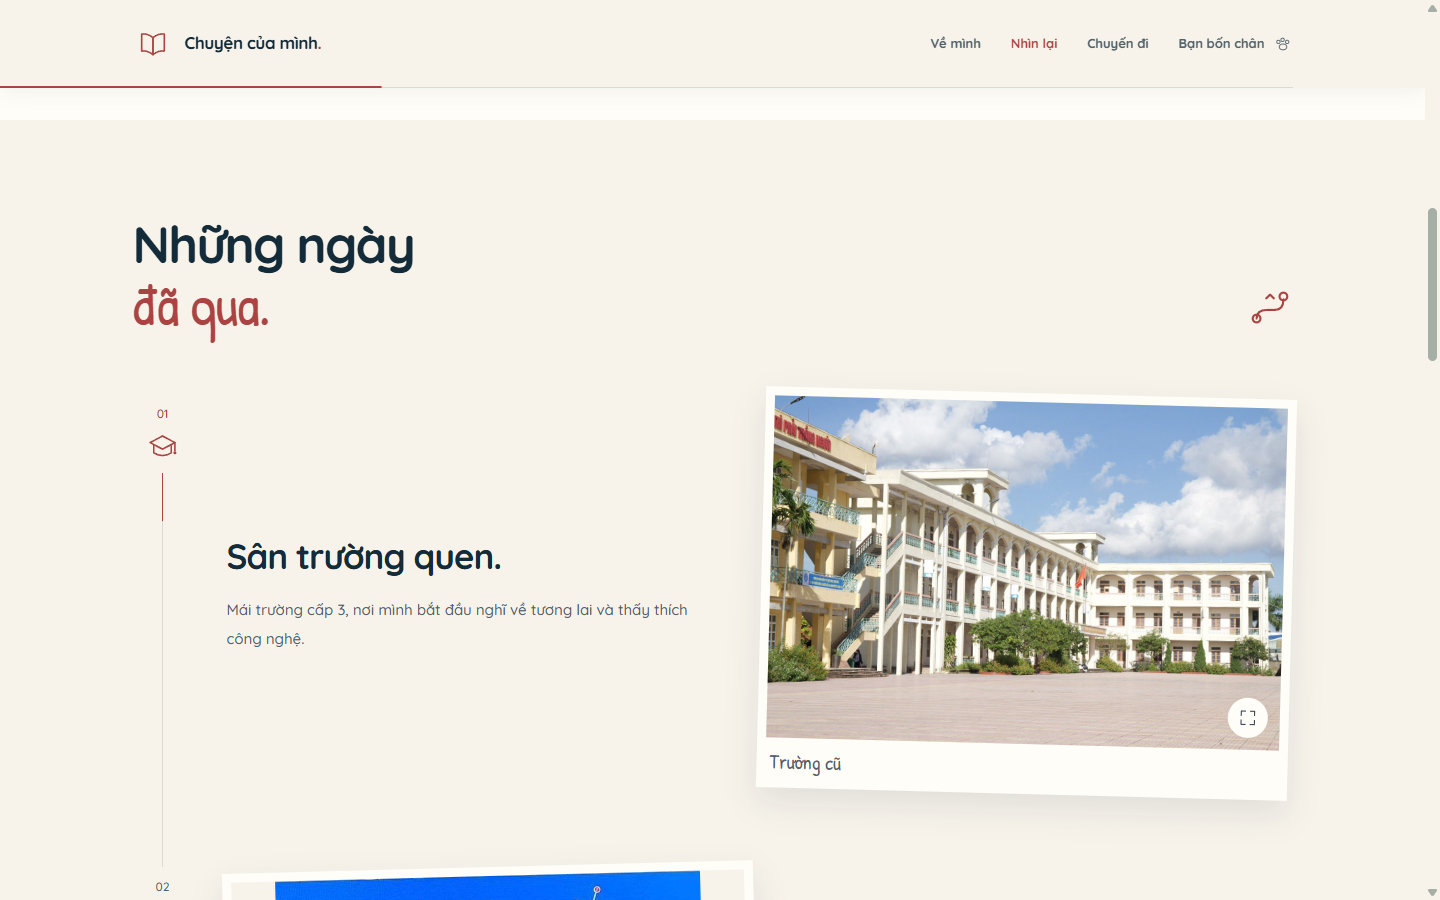
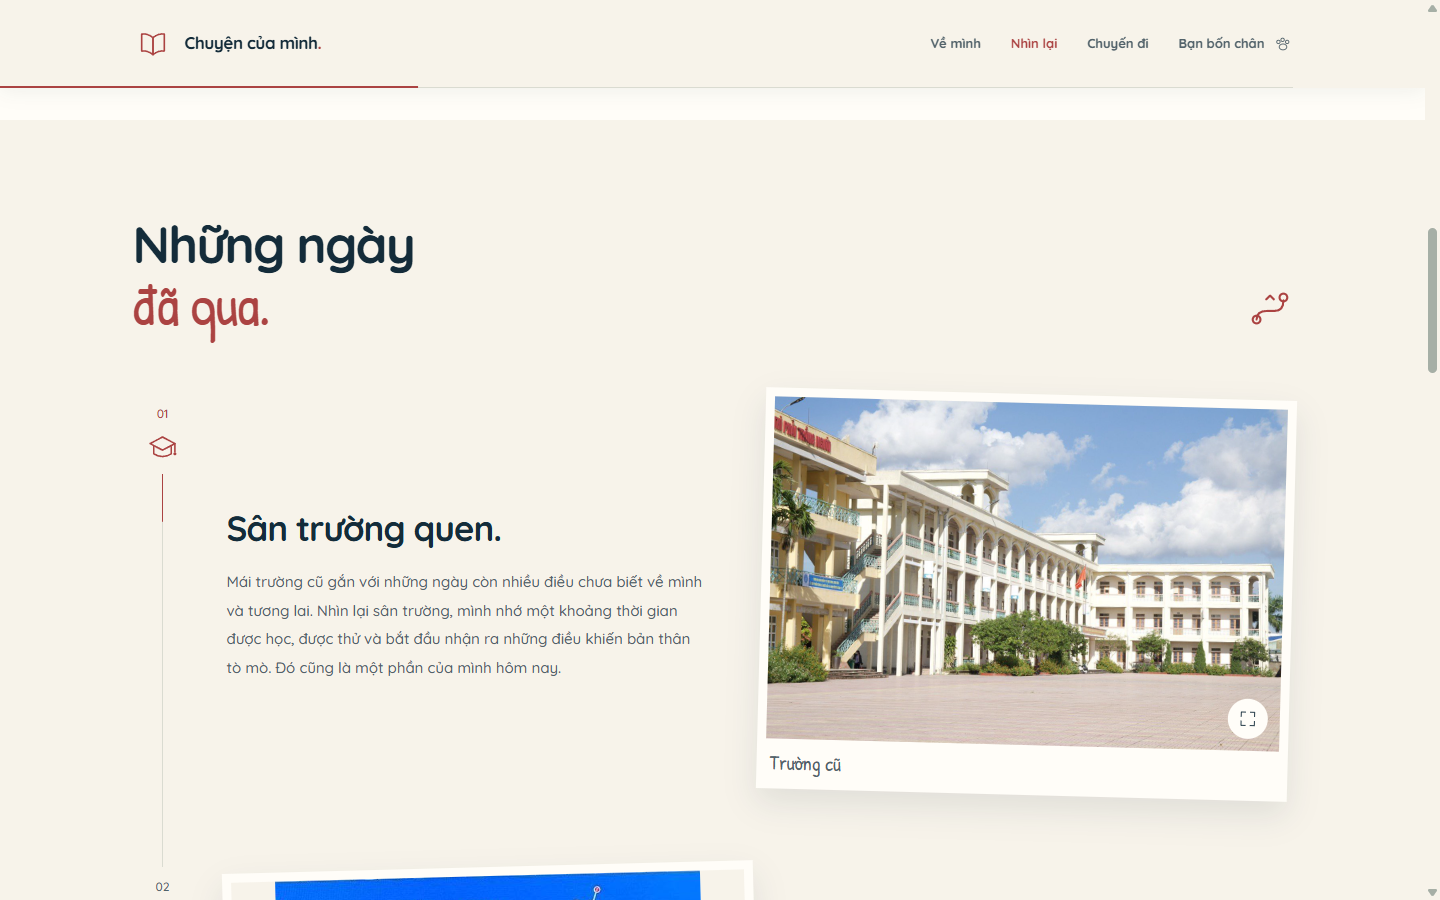
content: expand personal story and photo descriptions

diff --git a/static/css/style.css b/static/css/style.css
@@ -71,6 +71,7 @@ h1 em, h2 em { color: var(--coral); font: 600 1.12em/1.1 var(--font-hand); lette
 .intro-grid { display: grid; grid-template-columns: 1fr 1fr; gap: 100px; align-items: center; }
 .intro h2, .section-heading h2 { font-size: clamp(34px, 3.6vw, 51px); }
 .intro-heading > p { max-width: 470px; margin-top: 24px; color: var(--muted); font-size: 16px; line-height: 1.9; }
+.intro-heading > p + p { margin-top: 16px; }
 .facts-list { margin: 0; }
 .facts-list > div { display: grid; grid-template-columns: 128px minmax(0, 1fr); gap: 18px; align-items: center; padding-block: 18px; border-bottom: 1px solid var(--line); }
 .facts-list dt { display: flex; align-items: center; gap: 9px; color: var(--muted); font-size: 12px; }
@@ -104,11 +105,12 @@ h1 em, h2 em { color: var(--coral); font: 600 1.12em/1.1 var(--font-hand); lette
 .js-lightbox-trigger:hover img { transform: scale(1.025); }
 .js-lightbox-trigger:hover .photo-expand { color: var(--surface); background: var(--coral); }
 .travel { background: var(--surface); }
-.travel-grid { display: grid; grid-template-columns: 1.45fr 1fr 1fr; align-items: end; gap: 32px; }
+.travel-grid { display: grid; grid-template-columns: 1.45fr 1fr 1fr; align-items: start; gap: 32px; }
 .travel-image { position: relative; display: block; width: 100%; overflow: hidden; border-radius: 4px; }
 .travel-image img { height: auto; aspect-ratio: .76; object-fit: cover; }
 .travel-card--wide .travel-image img { aspect-ratio: 1.32; }
 .travel-card h3 { margin-top: 18px; font-size: 16px; line-height: 1.4; }
+.travel-card p { max-width: 65ch; margin-top: 10px; color: var(--muted); font-size: 14px; line-height: 1.85; }
 .animal { color: var(--surface); background: var(--navy); }
 .animal-grid { display: grid; grid-template-columns: 1fr 1fr; align-items: center; gap: 100px; }
 .animal-copy h2 { max-width: 490px; font-size: clamp(34px, 3.5vw, 46px); }

diff --git a/templates/index.html b/templates/index.html
@@ -46,7 +46,7 @@
     </section>
     <section class="intro section" id="about" aria-labelledby="about-title">
       <div class="container intro-grid">
-        <div class="intro-heading"><h2 id="about-title">{{ profile.intro_title }}<br><em>{{ profile.intro_accent }}</em></h2><p>{{ profile.intro }}</p></div>
+        <div class="intro-heading"><h2 id="about-title">{{ profile.intro_title }}<br><em>{{ profile.intro_accent }}</em></h2><p>{{ profile.intro }}</p><p>{{ profile.intro_more }}</p></div>
         <dl class="facts-list">
           {% for fact in profile.facts %}
           <div><dt>{{ icon(fact.icon) }}<span>{{ fact.label }}</span></dt><dd>{% if fact.from_label is defined %}<span class="fact-transition"><span>{{ fact.from_label }}</span>{{ icon('arrow-flow') }}<span class="sr-only">đến</span><span>{{ fact.to_label }}</span></span>{% else %}{{ fact.value }}{% endif %}</dd></div>
@@ -84,7 +84,7 @@
           <article class="travel-card {{ travel.class_name }}">
             <button type="button" class="travel-image js-lightbox-trigger" data-image="{{ photo_url(travel.image) }}" data-caption="{{ travel.title }}" data-alt="{{ travel.alt }}" aria-label="Xem ảnh: {{ travel.title }}">
               <img src="{{ photo_url(travel.image) }}" alt="{{ travel.alt }}" loading="lazy" decoding="async" width="1280" height="960"><span class="photo-expand">{{ icon('expand') }}<span class="sr-only">Xem ảnh lớn</span></span>
-            </button><h3>{{ travel.title }}</h3>
+            </button><h3>{{ travel.title }}</h3><p>{{ travel.description }}</p>
           </article>
           {% endfor %}
         </div>

diff --git a/profile_data.py b/profile_data.py
@@ -2,12 +2,13 @@ PROFILE = {
     "hero_title": "Mình, hôm nay",
     "hero_heading": "Mình,",
     "hero_accent": "hôm nay.",
-    "hero_description": "Thích công nghệ, đi đây đó và những người bạn bốn chân.",
+    "hero_description": "Mình thích tìm hiểu công nghệ, khám phá những nơi mới và chơi cùng những người bạn bốn chân. Đây là một vài lát cắt về mình, từ những kỷ niệm cũ đến cuộc sống hôm nay.",
     "hero_photo": "img/dulich3.jpg",
     "hero_alt": "Một khoảnh khắc nhìn mình qua gương trong chuyến đi",
     "intro_title": "Vài điều",
     "intro_accent": "về mình.",
-    "intro": "Mình đến với công nghệ từ sự tò mò. Qua từng trải nghiệm, mình học cách tự chủ, kiên trì và làm đến cùng.",
+    "intro": "Mình học An toàn thông tin tại Học viện Kỹ thuật Mật mã. Với mình, công nghệ không chỉ nằm trong sách vở, mà còn ở việc thử một ý tưởng, tìm hiểu cách nó hoạt động và từng bước biến điều mình nghĩ thành điều mình làm được.",
+    "intro_more": "Ngoài những giờ học và làm đồ án, mình thích đi đây đó, chụp lại những khung cảnh đẹp và chơi cùng động vật. Những bức ảnh ở đây giữ lại cả hai phần ấy: một mình nghiêm túc với điều đã chọn, và một mình giản dị trong những ngày bình thường.",
     "facts": [
         {"label": "Dấu mốc", "icon": "route", "from_label": "Ngày ấy", "to_label": "Hôm nay"},
         {"label": "Nơi học", "icon": "school", "value": "Học viện Kỹ thuật Mật mã"},
@@ -19,7 +20,7 @@ PROFILE = {
         {
             "number": "01",
             "title": "Sân trường quen.",
-            "text": "Mái trường cấp 3, nơi mình bắt đầu nghĩ về tương lai và thấy thích công nghệ.",
+            "text": "Mái trường cũ gắn với những ngày còn nhiều điều chưa biết về mình và tương lai. Nhìn lại sân trường, mình nhớ một khoảng thời gian được học, được thử và bắt đầu nhận ra những điều khiến bản thân tò mò. Đó cũng là một phần của mình hôm nay.",
             "image": "img/AnhTruongC3.jpg",
             "alt": "Khuôn viên trường cấp 3 dưới bầu trời xanh",
             "caption": "Trường cũ",
@@ -28,7 +29,7 @@ PROFILE = {
         {
             "number": "02",
             "title": "Thử sức với STEM.",
-            "text": "Cùng mọi người thử nghiệm ý tưởng và bước lên sân khấu. Một lần học được nhiều điều từ việc dám thử.",
+            "text": "Cuộc thi STEM là một dịp để mình đưa ý tưởng ra khỏi trang giấy và cùng mọi người thử sức. Tấm ảnh trên sân khấu giữ lại một trải nghiệm khác với giờ học thường ngày: cùng làm một việc, chia sẻ điều đã chuẩn bị và học thêm từ việc dám thử.",
             "image": "img/ThiSTEM.jpg",
             "alt": "Khoảnh khắc trên sân khấu cuộc thi STEM",
             "caption": "Cuộc thi STEM",
@@ -37,7 +38,7 @@ PROFILE = {
         {
             "number": "03",
             "title": "Chọn một hướng.",
-            "text": "Ở Học viện Kỹ thuật Mật mã, mình học An toàn thông tin và nghiêm túc hơn với lựa chọn của mình.",
+            "text": "Học viện Kỹ thuật Mật mã là nơi mình theo học An toàn thông tin. Lựa chọn ấy đưa sự tò mò về công nghệ vào một hướng rõ ràng hơn. Với mình, quãng thời gian này gắn với việc học cách tự tìm hiểu, kiên trì trước những vấn đề khó và có trách nhiệm với công việc của mình.",
             "image": "img/HVKTMM.jpg",
             "alt": "Cổng Học viện Kỹ thuật Mật mã",
             "caption": "Học viện Kỹ thuật Mật mã",
@@ -46,7 +47,7 @@ PROFILE = {
         {
             "number": "04",
             "title": "Bảo vệ đồ án.",
-            "text": "Tự trình bày và bảo vệ những gì đã làm. Một dấu mốc để nhìn lại quãng đường mình đã đi.",
+            "text": "Buổi bảo vệ đồ án là lúc mình trình bày công việc đã thực hiện và trao đổi với hội đồng về những lựa chọn trong đó. Bức ảnh giữ lại một dấu mốc của quãng thời gian học tập, đồng thời nhắc mình về việc làm đến cùng và hiểu rõ điều mình đã làm.",
             "image": "img/baovedoantotnghiep.png",
             "alt": "Hội đồng bảo vệ đồ án tốt nghiệp ngành An toàn thông tin",
             "caption": "Bảo vệ đồ án tốt nghiệp",
@@ -56,15 +57,33 @@ PROFILE = {
     "travel_title": "Những ngày",
     "travel_accent": "đi xa.",
     "travels": [
-        {"image": "img/dulich1.jpg", "alt": "Lối đi giữa vườn hoa cẩm tú cầu", "title": "Giữa màu xanh.", "class_name": "travel-card--wide"},
-        {"image": "img/dulich2.jpg", "alt": "Con đường gỗ giữa một vườn hoa trắng", "title": "Một ngày đầy hoa.", "class_name": ""},
-        {"image": "img/dulich4.jpg", "alt": "Một góc vườn có cây, hoa và bảng gỗ", "title": "Góc vườn nhỏ.", "class_name": ""},
+        {
+            "image": "img/dulich1.jpg",
+            "alt": "Lối đi giữa vườn hoa cẩm tú cầu",
+            "title": "Giữa màu xanh.",
+            "description": "Một lối đi giữa những khóm cẩm tú cầu. Mình thích lưu lại những khung cảnh như thế này, để sau chuyến đi vẫn còn một góc xanh mà nhìn lại.",
+            "class_name": "travel-card--wide",
+        },
+        {
+            "image": "img/dulich2.jpg",
+            "alt": "Con đường gỗ giữa một vườn hoa trắng",
+            "title": "Một ngày đầy hoa.",
+            "description": "Con đường gỗ, những bông hoa trắng và một khoảng trời yên tĩnh. Đôi khi một chuyến đi đáng nhớ chỉ cần những điều đơn giản như vậy.",
+            "class_name": "",
+        },
+        {
+            "image": "img/dulich4.jpg",
+            "alt": "Một góc vườn có cây, hoa và bảng gỗ",
+            "title": "Góc vườn nhỏ.",
+            "description": "Giữa cây, hoa và những chi tiết nhỏ trong vườn, mình có thêm một tấm ảnh để mang về. Một khoảnh khắc bình thường, nhưng là một phần của chuyến đi.",
+            "class_name": "",
+        },
     ],
     "animal": {
         "image": "img/yeudongvat.png",
         "alt": "Một khoảnh khắc chơi cùng những chú chó",
         "title": "Những người bạn",
         "accent": "bốn chân.",
-        "text": "Sau những giờ học và làm việc, mình thích ngồi chơi cùng các bạn nhỏ này.",
+        "text": "Mình thích dành thời gian chơi cùng động vật, nhất là những chú chó. Không cần một hoạt động cầu kỳ, chỉ ngồi cạnh và chơi cùng các bạn nhỏ cũng là một khoảng nghỉ dễ chịu. Tấm ảnh này giữ lại một phần rất đời thường của mình, bên ngoài những bài học và đồ án.",
     },
 }

diff --git a/tests/test_app.py b/tests/test_app.py
@@ -59,6 +59,18 @@ class PortfolioRoutesTest(unittest.TestCase):
         self.assertNotIn('href="#contact"', html)
         self.assertIn('aria-label="Về đầu trang"', html)
 
+    def test_expanded_descriptions_are_rendered_with_their_photos(self):
+        html = self.client.get("/").get_data(as_text=True)
+        profile = app_module.PROFILE
+        self.assertIn(str(escape(profile["intro_more"])), html)
+        for item in profile["timeline"]:
+            self.assertIn(str(escape(item["text"])), html)
+            self.assertGreater(len(item["text"].split()), 35)
+        for travel in profile["travels"]:
+            self.assertIn('<p>' + str(escape(travel["description"])) + '</p>', html)
+            self.assertGreater(len(travel["description"].split()), 20)
+        self.assertIn(str(escape(profile["animal"]["text"])), html)
+
     def test_original_images_and_static_files(self):
         files = [("/img/" + name, ROOT / "img" / name) for name in sorted(IMAGES)]
         files += [
@@ -100,6 +112,8 @@ class PortfolioRoutesTest(unittest.TestCase):
         profile["hero_heading"] = payload
         profile["hero_accent"] = payload
         profile["hero_description"] = payload
+        profile["intro_more"] = payload
+        profile["travels"][0]["description"] = payload
         profile["hero_alt"] = payload
         profile["facts"][0]["from_label"] = payload
         profile["facts"][0]["to_label"] = payload

diff --git a/docs/QA.md b/docs/QA.md
@@ -1,4 +1,16 @@
-# Kiểm tra bản rút gọn và hoạt ảnh
+# Kiểm tra nội dung và giao diện
+
+## Bổ sung mô tả ngày 01/10/2026
+
+- Giới thiệu gồm hai đoạn về công nghệ và cuộc sống thường ngày. Bốn dấu mốc đều có lời kể mở rộng; ba ảnh du lịch có đoạn mô tả riêng; phần động vật được viết đầy đủ hơn.
+- Giữ tiêu đề, màu sắc, 9 ảnh gốc, icon và hoạt ảnh của bản trước. Không thêm tên, năm học, giải thưởng, địa điểm du lịch hoặc thông tin liên hệ chưa được cung cấp.
+- Đọc và kiểm tra hiển thị desktop 1440x900, mobile 390x844. Các đoạn văn không bị cắt; khoảng cách giữa hai đoạn giới thiệu được tách rõ.
+- Đo viewport 320, 390, 768, 1024, 1440px: scrollWidth bằng clientWidth, không có đoạn văn, tiêu đề hoặc dd tràn ngang. Đây là viewport mô phỏng, không phải thử trên điện thoại vật lý.
+- Menu mobile vẫn mở và đóng khi chọn Về mình. Console không có warning/error trong lượt kiểm tra.
+- 7/7 nhóm unittest PASS, bao gồm kiểm tra mô tả mở rộng được render đúng và HTML escaping của các trường mới. git diff --check PASS.
+- Cập nhật ảnh xem trước desktop, dấu mốc, mobile và thêm [phần giới thiệu](preview-about.png). Browser được trả về viewport bình thường sau kiểm tra.
+
+## Bản rút gọn và hoạt ảnh ngày 30/09/2026
 
 Ngày kiểm tra: 30/09/2026. Flask local tại 127.0.0.1:5059, debug tắt. Một vòng kiểm tra gộp desktop/mobile, sửa caption ảnh và pha chờ animation trong một batch, rồi xác nhận lại.
 
